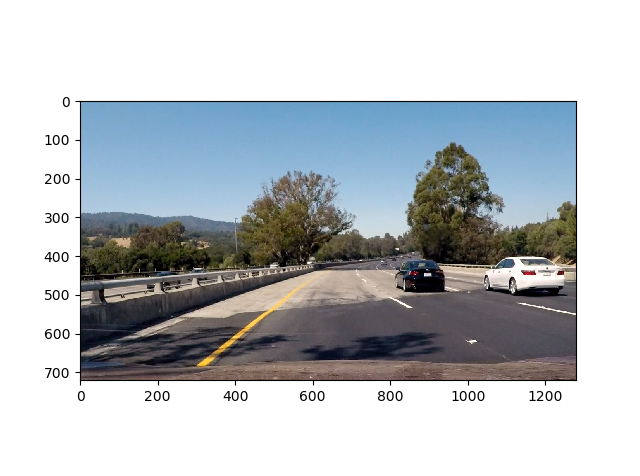
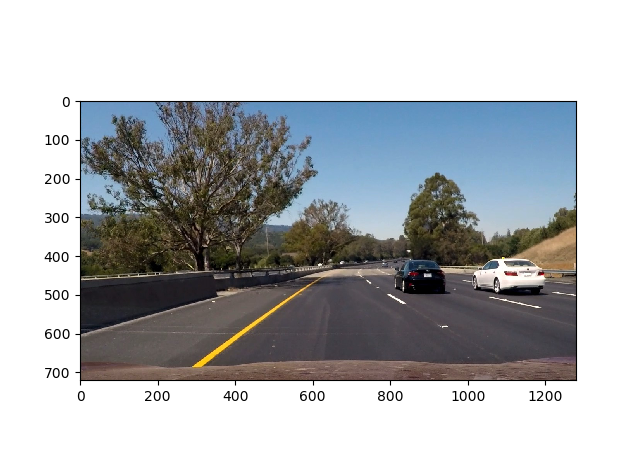
Create process function

diff --git a/main.py b/main.py
@@ -4,6 +4,7 @@ import matplotlib.pyplot as plt
 import matplotlib.image as mpimg
 import glob
 import math
+from moviepy.editor import VideoFileClip
 
 # Calibrates the camera
 def calibrate(images):
@@ -327,7 +328,58 @@ def car_location(left_fit, right_fit, imagex, imagey, cfactor):
     # Car position calculated by taking difference in lane center and frame center
     camcenter = (imagex/2)
     carpos =  (camcenter - lanecenter) * cfactor
-    return int(camcenter), int(lanecenter), carpos
+    return int(camcenter), int(lanecenter), carpos 
+
+def process(img):
+    global left_fit
+    global right_fit 
+
+    dst = cv2.undistort(img, mtx, dist, None, mtx)
+    csimg = combined_sobelx_hs_channel(dst)
+    binary_warped = warp(csimg)
+
+    ploty, leftx, rightx, lefty, righty, left_fit, right_fit, left_fitx, right_fitx, resultimg = fit_poly(binary_warped, left_fit, right_fit)
+
+    left_curverad, right_curverad = calculate_radii(ploty, leftx, rightx, lefty, righty)
+
+    # binary_unwarped = unwarp(resultimg)
+    # finalimg = cv2.addWeighted(dst, 1, binary_unwarped, 0.8, 0)
+
+    warp_zero = np.zeros_like(binary_warped).astype(np.uint8)
+    color_warp = np.dstack((warp_zero, warp_zero, warp_zero))
+
+    # Recast the x and y points into usable format for cv2.fillPoly()
+    pts_left = np.array([np.transpose(np.vstack([left_fitx, ploty]))])
+    pts_right = np.array([np.flipud(np.transpose(np.vstack([right_fitx, ploty])))])
+    pts = np.hstack((pts_left, pts_right))
+
+    # print("Left: "+str(pts_left.shape))
+    # print("Rgiht: "+str(pts_right.shape))
+
+    # Draw the lane onto the warped blank image
+    cv2.fillPoly(color_warp, np.int_([pts]), (0,255, 0))
+
+    # Warp the blank back to original image space using inverse perspective matrix (Minv)
+    newwarp = unwarp(color_warp)
+    # Combine the result with the original image
+    result = cv2.addWeighted(dst, 1, newwarp, 0.3, 0)
+
+    font = cv2.FONT_HERSHEY_SIMPLEX
+
+    camcenter, lanecenter, carpos = car_location(left_fit, right_fit, dst.shape[1], dst.shape[0], (3.7/700))
+
+    # cv2.circle(result,(result.shape[1]//2,result.shape[0]-20), 20, (0,0,255), -1)
+    # cv2.circle(result,(int(camcenter),result.shape[0]), 20, (255,0,0), -1)
+    # cv2.circle(result,(int(lanecenter),result.shape[0]-30), 20, (0,0,255), -1)
+    # actpos = (dst.shape[1]//2) - carpos
+    if carpos > 0:
+        msg = "Right of center "+str(abs(round(carpos, 2)))+" (m)"
+    else:
+        msg = "Left of center "+str(abs(round(carpos, 2)))+" (m)"
+
+    cv2.putText(result, str("Curvature: "+str((left_curverad+right_curverad)//2)+" (m)") ,(10,20), font, 0.5,(255,255,255),1,cv2.LINE_AA)
+    cv2.putText(result, str("Car position:  "+msg) ,(10,50), font, 0.5,(255,255,255),1,cv2.LINE_AA)
+    return result
 
 if __name__ == "__main__":
     # Start of main function and pipeline
@@ -350,105 +402,52 @@ if __name__ == "__main__":
     # Pipeline on singe image 
     # ------------------------------------------------------#
 
-    img = mpimg.imread('test_images/test4.jpg')
-    #img = mpimg.imread('crit_images/second/img_1045.jpg')
-
-    plt.imshow(img)
-    plt.show()
-    dst = cv2.undistort(img, mtx, dist, None, mtx)
-    plt.imshow(dst)
-    plt.show()
-    csimg = combined_sobelx_hs_channel(dst)
-    plt.imshow(csimg,  cmap='gray')
-    plt.show()
-    binary_warped = warp(csimg)
-    plt.imshow(binary_warped,  cmap='gray')
-    plt.show()
-
-    ploty, leftx, rightx, lefty, righty, left_fit, right_fit, left_fitx, right_fitx, resultimg = fit_poly(binary_warped)
-
-    left_curverad, right_curverad = calculate_radii(ploty, leftx, rightx, lefty, righty)
-
-    binary_unwarped = unwarp(resultimg)
-    plt.imshow(binary_unwarped)
-    plt.show()
-
-    # print("dst: "+str(dst.shape)+str(dst.shape[1])+" "+str(dst.shape[0]))
-    # print("resultimg: "+str(resultimg.shape)+str(resultimg.shape[1])+" "+str(resultimg.shape[0]))
-    finalimg = cv2.addWeighted(dst, 1, binary_unwarped, 0.8, 0)
-    #cv2.circle(finalimg,(finalimg.shape[1]//2,finalimg.shape[0]-20), 20, (0,0,255), -1)
-    #cv2.circle(finalimg,(car_location(leftx,rightx),finalimg.shape[0]-60), 20, (255,0,0), -1)
-    plt.imshow(finalimg)
-    plt.show()
-
-    # ----------------------------------------------------- #
-    # Pipeline on video 
-    # ------------------------------------------------------#
-
-    # videofile = cv2.VideoCapture('project_video.mp4')
-
     # left_fit = None 
     # right_fit = None 
 
-    # i=-1
-    # while(videofile.isOpened()):
-    #     ret, frame = videofile.read()
-    #     i = i + 1
-    #     # if i < 400:
-    #     #     continue
-    #     dst = cv2.undistort(frame, mtx, dist, None, mtx)
-    #     csimg = combined_sobelx_hs_channel(dst)
-    #     binary_warped = warp(csimg)
+    # img = mpimg.imread('test_images/test6.jpg')
+    # result = process(img)
+    # plt.imshow(result)
+    # plt.show()
 
-    #     ploty, leftx, rightx, lefty, righty, left_fit, right_fit, left_fitx, right_fitx, resultimg = fit_poly(binary_warped, left_fit, right_fit)
+    # ----------------------------------------------------- #
+    # Pipeline on frames from video and live output 
+    # ------------------------------------------------------#
 
-    #     left_curverad, right_curverad = calculate_radii(ploty, leftx, rightx, lefty, righty)
+    left_fit = None 
+    right_fit = None
 
-    #     # binary_unwarped = unwarp(resultimg)
-    #     # finalimg = cv2.addWeighted(dst, 1, binary_unwarped, 0.8, 0)
+    videofile = cv2.VideoCapture('project_video.mp4')
 
-    #     warp_zero = np.zeros_like(binary_warped).astype(np.uint8)
-    #     color_warp = np.dstack((warp_zero, warp_zero, warp_zero))
+    i=-1
+    while(videofile.isOpened()):
+        ret, frame = videofile.read()
+        if ret == True:
+            i = i + 1
+            # skip frames
+            # if i < 400:
+            #     continue
+            result = process(frame)
+            cv2.imshow('frame',result)
 
-    #     # Recast the x and y points into usable format for cv2.fillPoly()
-    #     pts_left = np.array([np.transpose(np.vstack([left_fitx, ploty]))])
-    #     pts_right = np.array([np.flipud(np.transpose(np.vstack([right_fitx, ploty])))])
-    #     pts = np.hstack((pts_left, pts_right))
+            cv2.imwrite('output/frame_'+str(i)+'.jpg', result)
+            
+            if cv2.waitKey(1) & 0xFF == ord('q'):
+                break
+        else:
+            break
 
-    #     # print("Left: "+str(pts_left.shape))
-    #     # print("Rgiht: "+str(pts_right.shape))
+    videofile.release()
+    cv2.destroyAllWindows()
 
-    #     # Draw the lane onto the warped blank image
-    #     cv2.fillPoly(color_warp, np.int_([pts]), (0,255, 0))
-
-    #     # Warp the blank back to original image space using inverse perspective matrix (Minv)
-    #     newwarp = unwarp(color_warp)
-    #     # Combine the result with the original image
-    #     result = cv2.addWeighted(dst, 1, newwarp, 0.3, 0)
-
-    #     font = cv2.FONT_HERSHEY_SIMPLEX
-
-    #     camcenter, lanecenter, carpos = car_location(left_fit, right_fit, dst.shape[1], dst.shape[0], (3.7/700))
-
-    #     # cv2.circle(result,(result.shape[1]//2,result.shape[0]-20), 20, (0,0,255), -1)
-    #     # cv2.circle(result,(int(camcenter),result.shape[0]), 20, (255,0,0), -1)
-    #     # cv2.circle(result,(int(lanecenter),result.shape[0]-30), 20, (0,0,255), -1)
-    #     # actpos = (dst.shape[1]//2) - carpos
-    #     if carpos > 0:
-    #         msg = "Right of center "+str(abs(round(carpos, 2)))+" (m)"
-    #     else:
-    #         msg = "Left of center "+str(abs(round(carpos, 2)))+" (m)"
-
-        
-
-    #     cv2.putText(result, str("Curvature: "+str((left_curverad+right_curverad)//2)+" (m)") ,(10,20), font, 0.5,(255,255,255),1,cv2.LINE_AA)
-    #     cv2.putText(result, str("Car position:  "+msg) ,(10,50), font, 0.5,(255,255,255),1,cv2.LINE_AA)
-
-    #     cv2.imshow('frame',result)
-        
-    #     #cv2.imwrite('img_'+str(i)+'.jpg',frame)
-    #     if cv2.waitKey(1) & 0xFF == ord('q'):
-    #         break
-
-    # videofile.release()
-    # cv2.destroyAllWindows()
+    # ----------------------------------------------------- #
+    # Pipeline on frames from video and record output 
+    # ------------------------------------------------------#
+    # left_fit = None 
+    # right_fit = None
+    # outputfile = 'output.mp4'
+    # videoclip = VideoFileClip('project_video.mp4')
+    # processed_clip = videoclip.fl_image(process)
+    # processed_clip.write_videofile(outputfile, audio=False)
+    
+    
